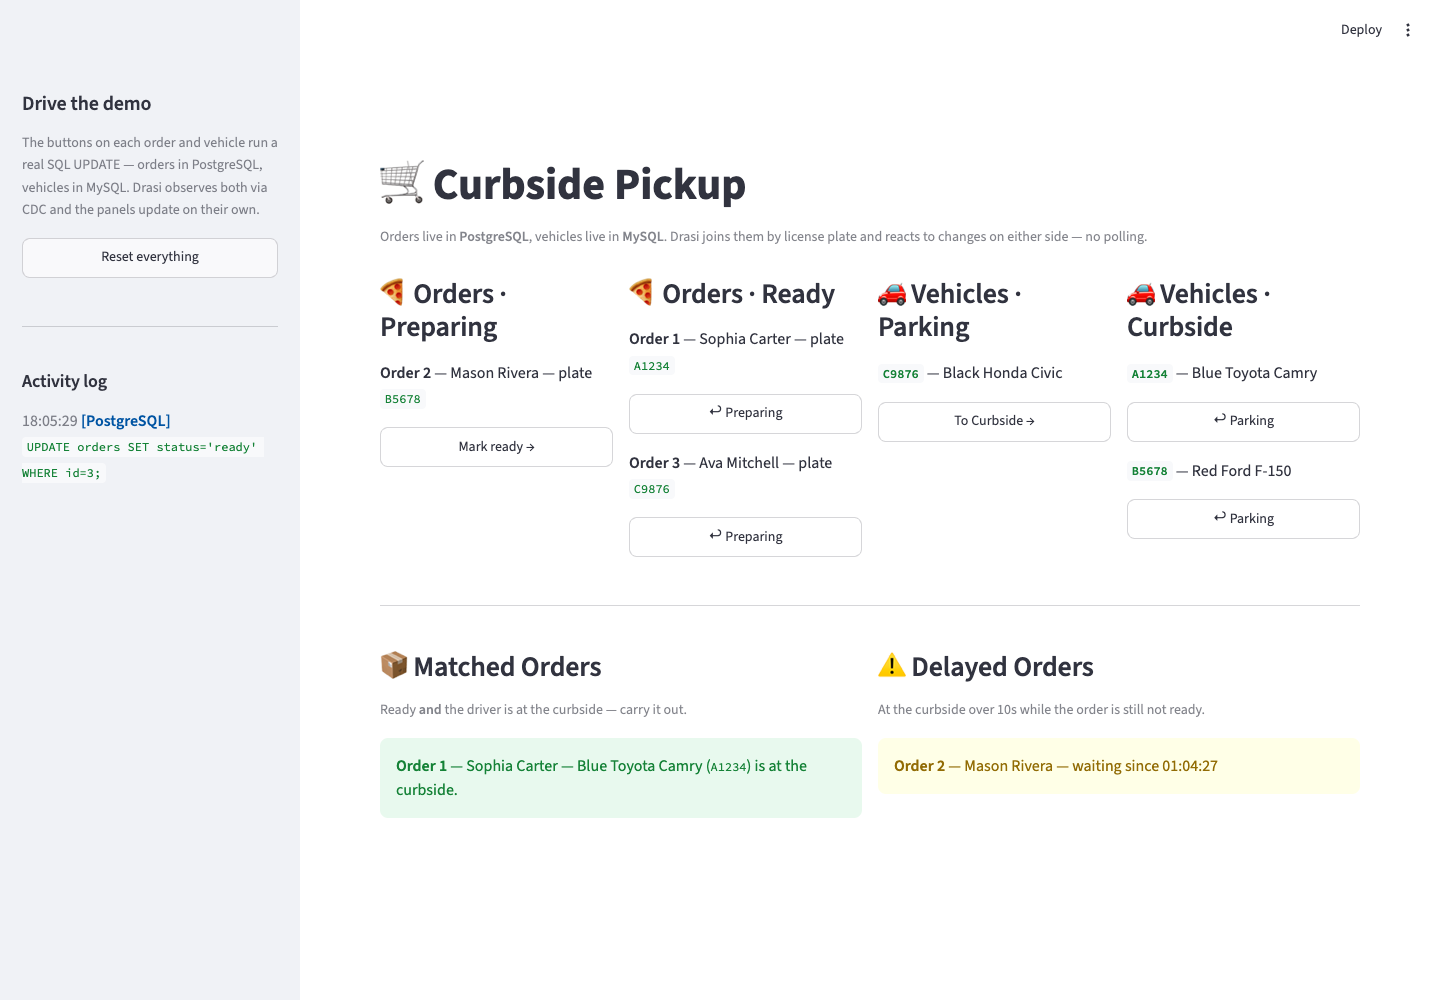
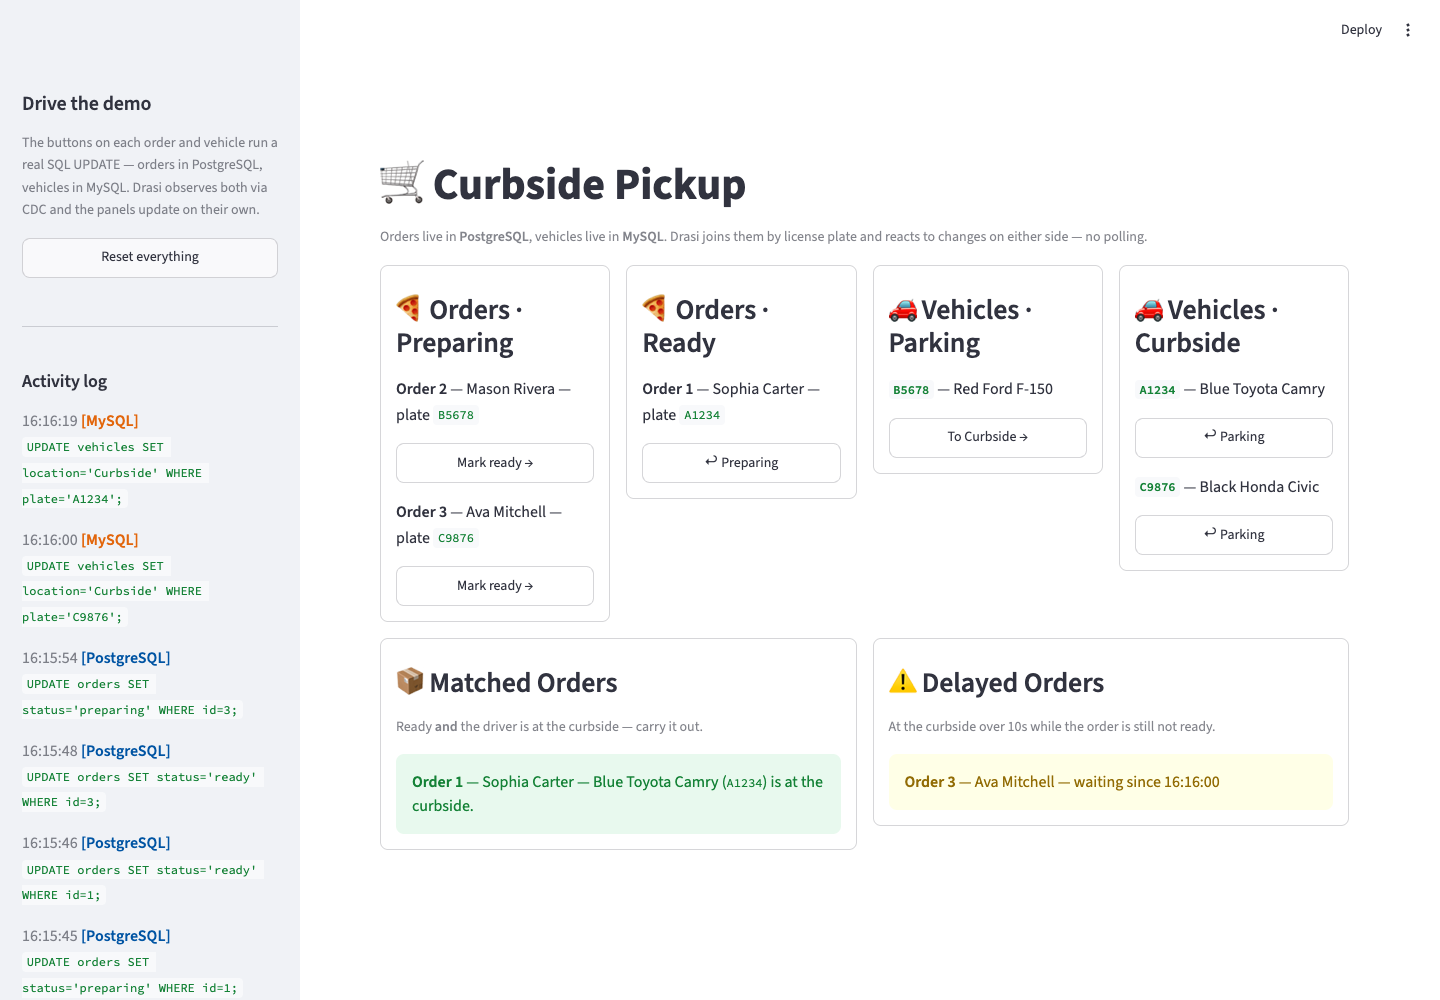
Give each Curbside panel its own bordered box
Wrap the six panels in st.container(border=True) so each order/vehicle/matched/
delayed box is visually distinct, and refresh the screenshot.

diff --git a/tutorials/curbside-pickup/app.py b/tutorials/curbside-pickup/app.py
@@ -168,21 +168,19 @@ def main() -> None:
     render_sidebar(engine, snapshot["activity"])
 
     top = st.columns(4)
-    with top[0]:
+    with top[0], st.container(border=True):
         order_panel(results.get(ORDERS_PREPARING, []), ready=False, engine=engine)
-    with top[1]:
+    with top[1], st.container(border=True):
         order_panel(results.get(ORDERS_READY, []), ready=True, engine=engine)
-    with top[2]:
+    with top[2], st.container(border=True):
         vehicle_panel(results.get(VEHICLES_PARKING, []), curbside=False, engine=engine)
-    with top[3]:
+    with top[3], st.container(border=True):
         vehicle_panel(results.get(VEHICLES_CURBSIDE, []), curbside=True, engine=engine)
 
-    st.divider()
-
     bottom = st.columns(2)
-    with bottom[0]:
+    with bottom[0], st.container(border=True):
         matched_panel(results.get(DELIVERY, []))
-    with bottom[1]:
+    with bottom[1], st.container(border=True):
         delayed_panel(results.get(DELAY, []))
 
 
